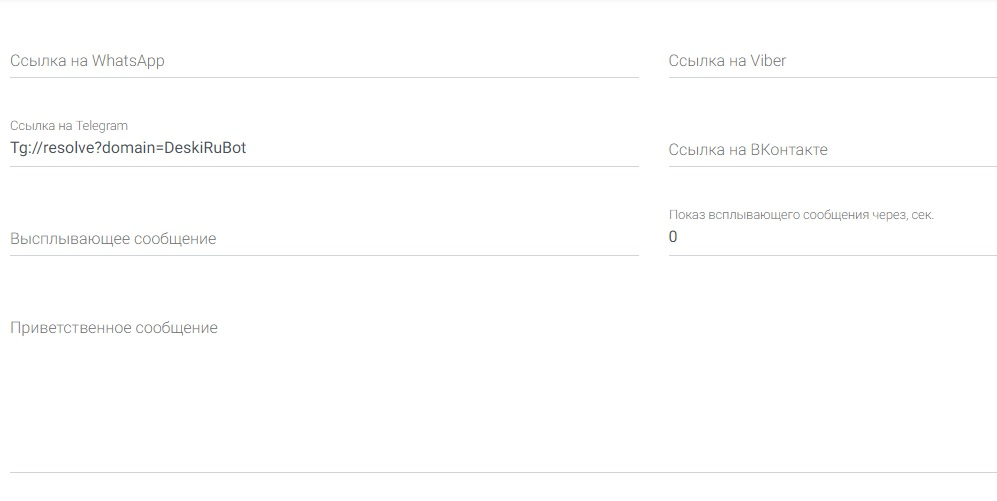
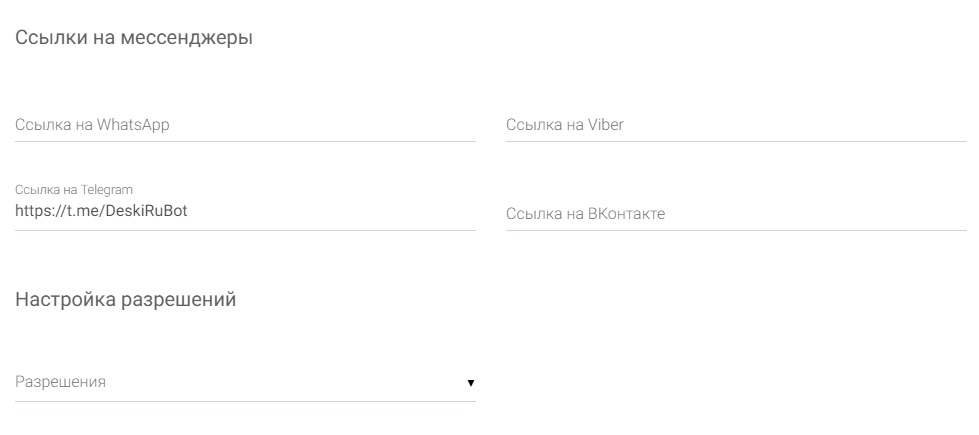
Ссылка на Telegram бота

diff --git a/docs/docs-channels-telegraminfo.html b/docs/docs-channels-telegraminfo.html
@@ -88,10 +88,10 @@
 
 <ul>
     <li>Укажите логин бота вашим пользователям, напрмер на сайте компании.</li>
-    <li>Так же вы можете указать ссылку, вида <b>Tg://resolve?domain=логинбота</b>, например <a href="Tg://resolve?domain=DeskiRuBot">DeskiRuBot</a>. При переходе по указнной ссылке будет открываться приложение Telegram.</li>
+    <li>Так же вы можете указать ссылку, вида <b>https://t.me/логинбота</b>, например <a href="https://t.me/DeskiRuBot">https://t.me/DeskiRuBot</a>. При переходе по указнной ссылке будет открываться приложение Telegram.</li>
     <li>
         <a href="https://lk.deski.ru/#/cabinet/a/edit/helpdesk/chatinfo/-/" target="_blank">Чат для сайта Deski.ru</a>
-        поддерживает размещение ссылки на канал в Telegram. Укажете в поле Ссылка на Telegram ссылку на ваш канал вида <b>Tg://resolve?domain=логинбота</b>
+        поддерживает размещение ссылки на канал в Telegram. Укажете в поле Ссылка на Telegram ссылку на ваш канал вида <b>https://t.me/логинбота</b>
     </li>
 </ul>
 
